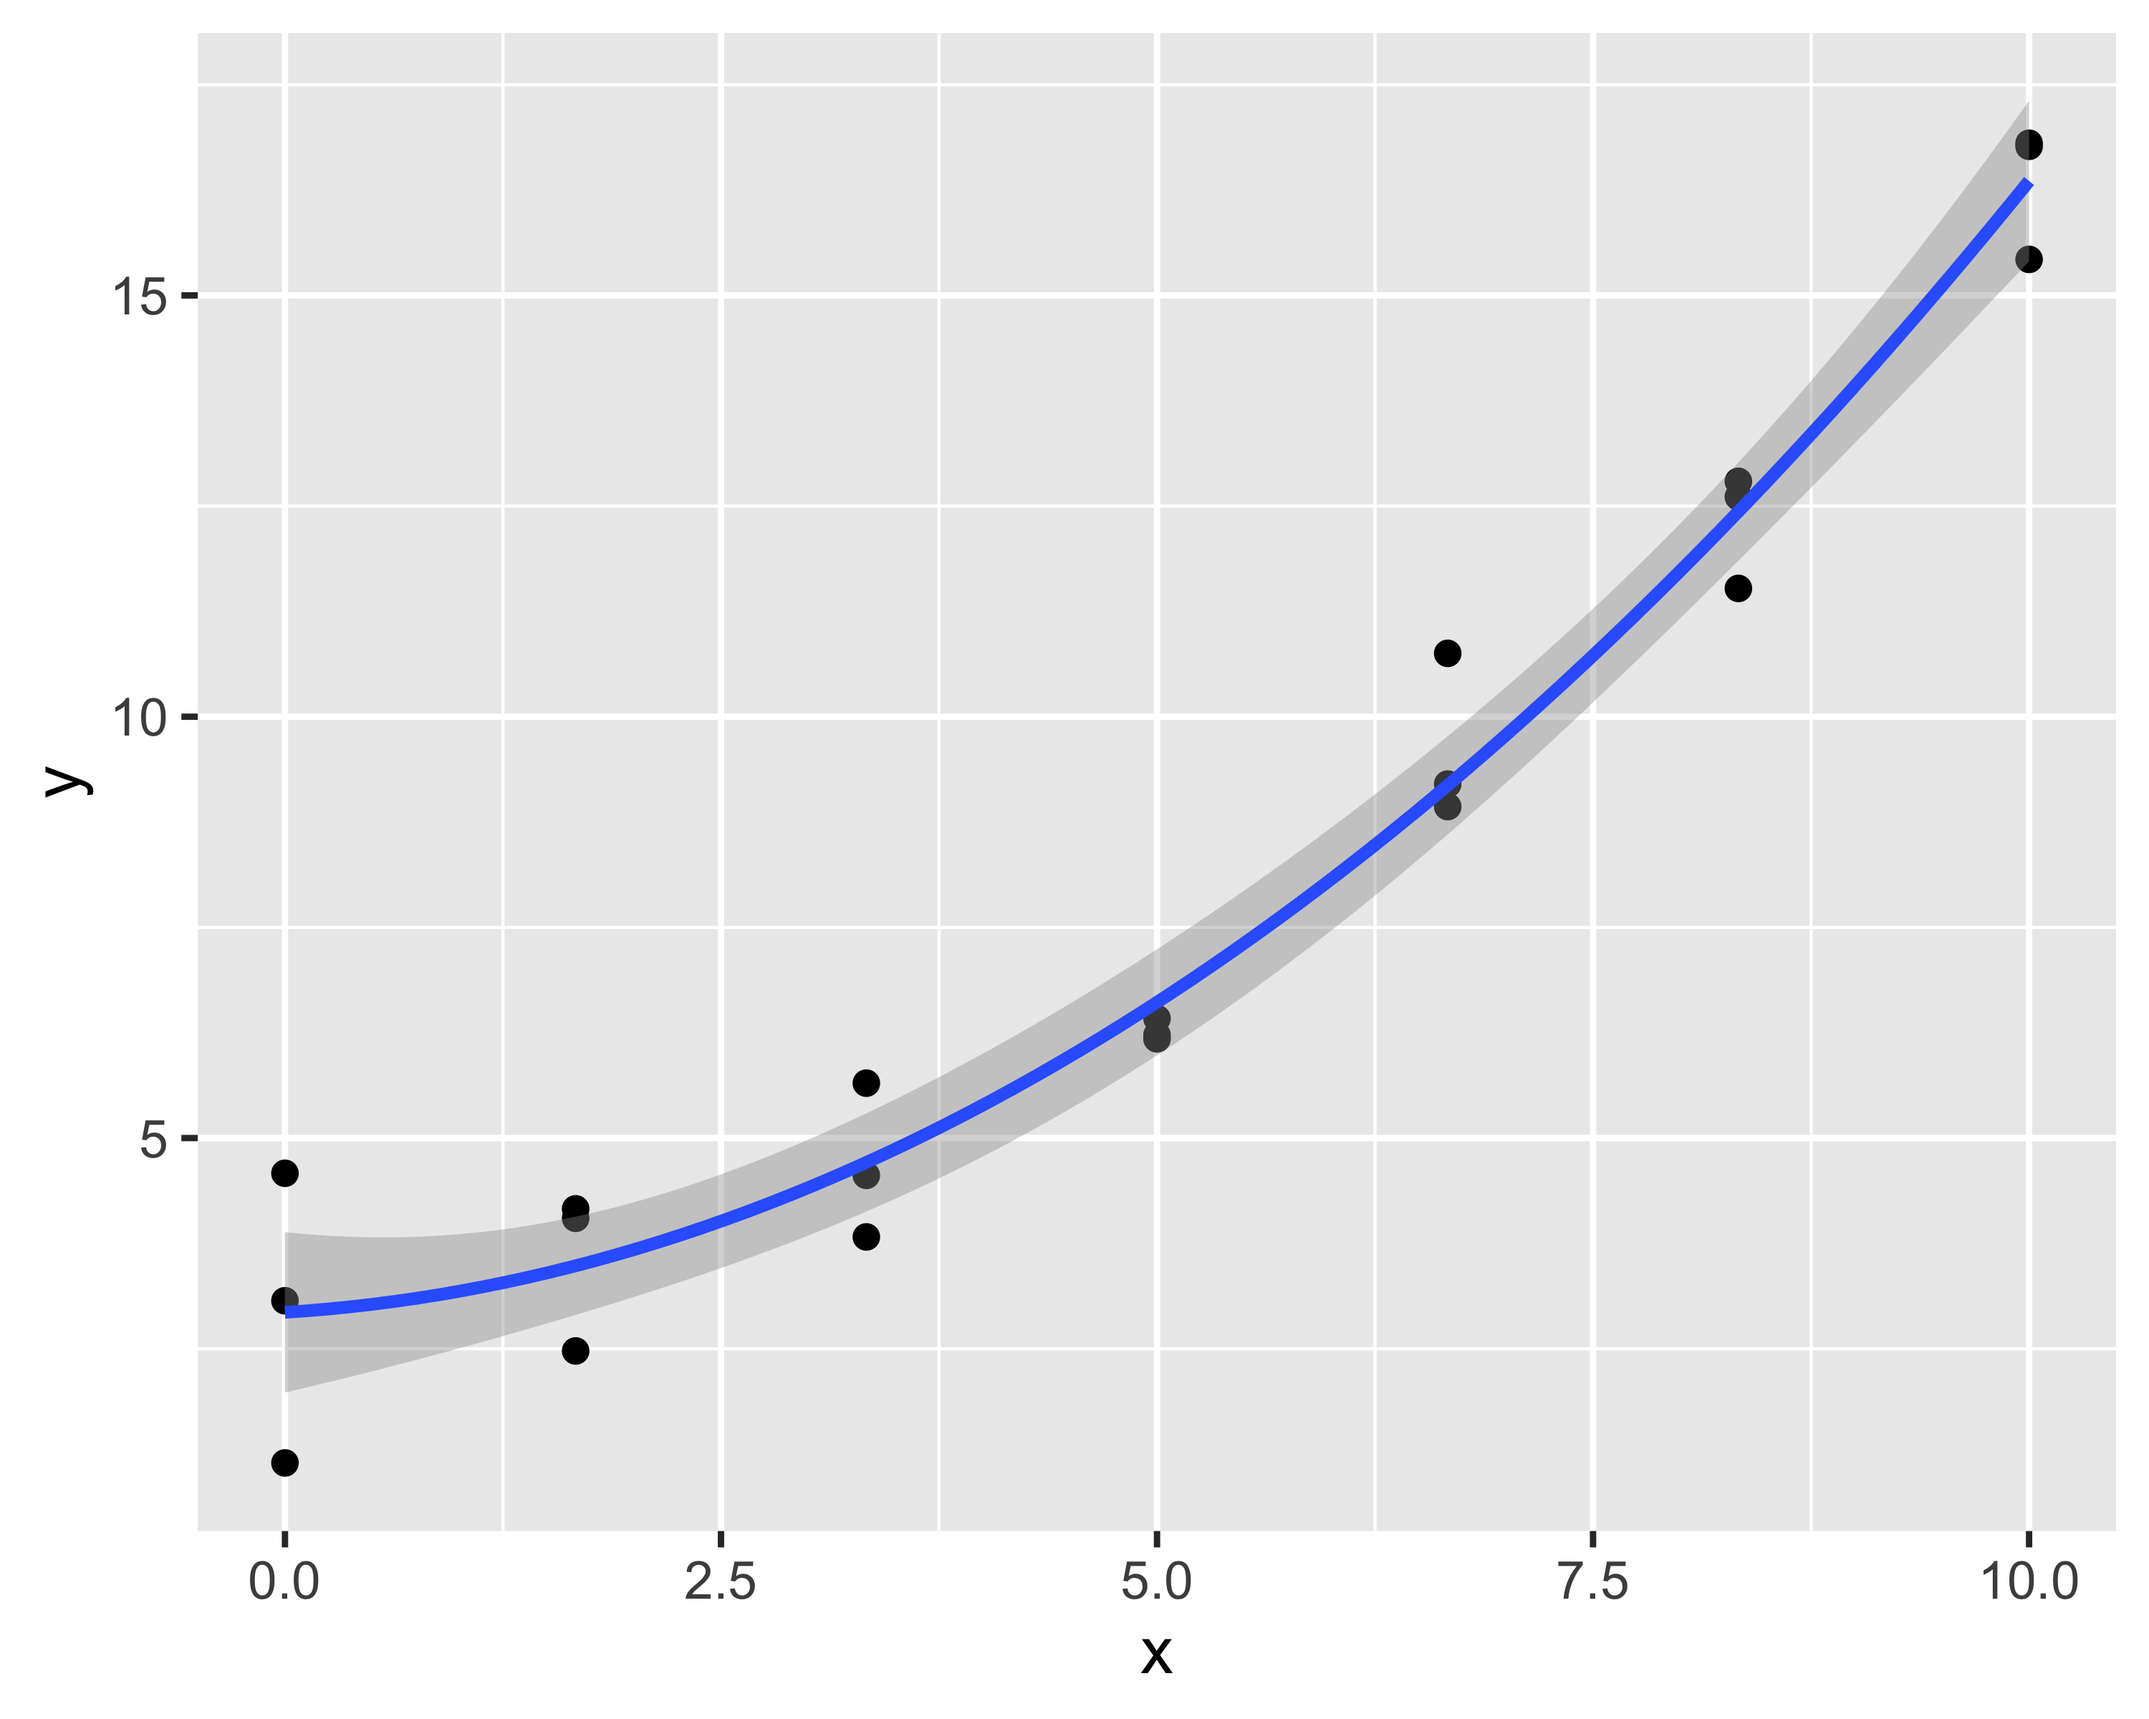
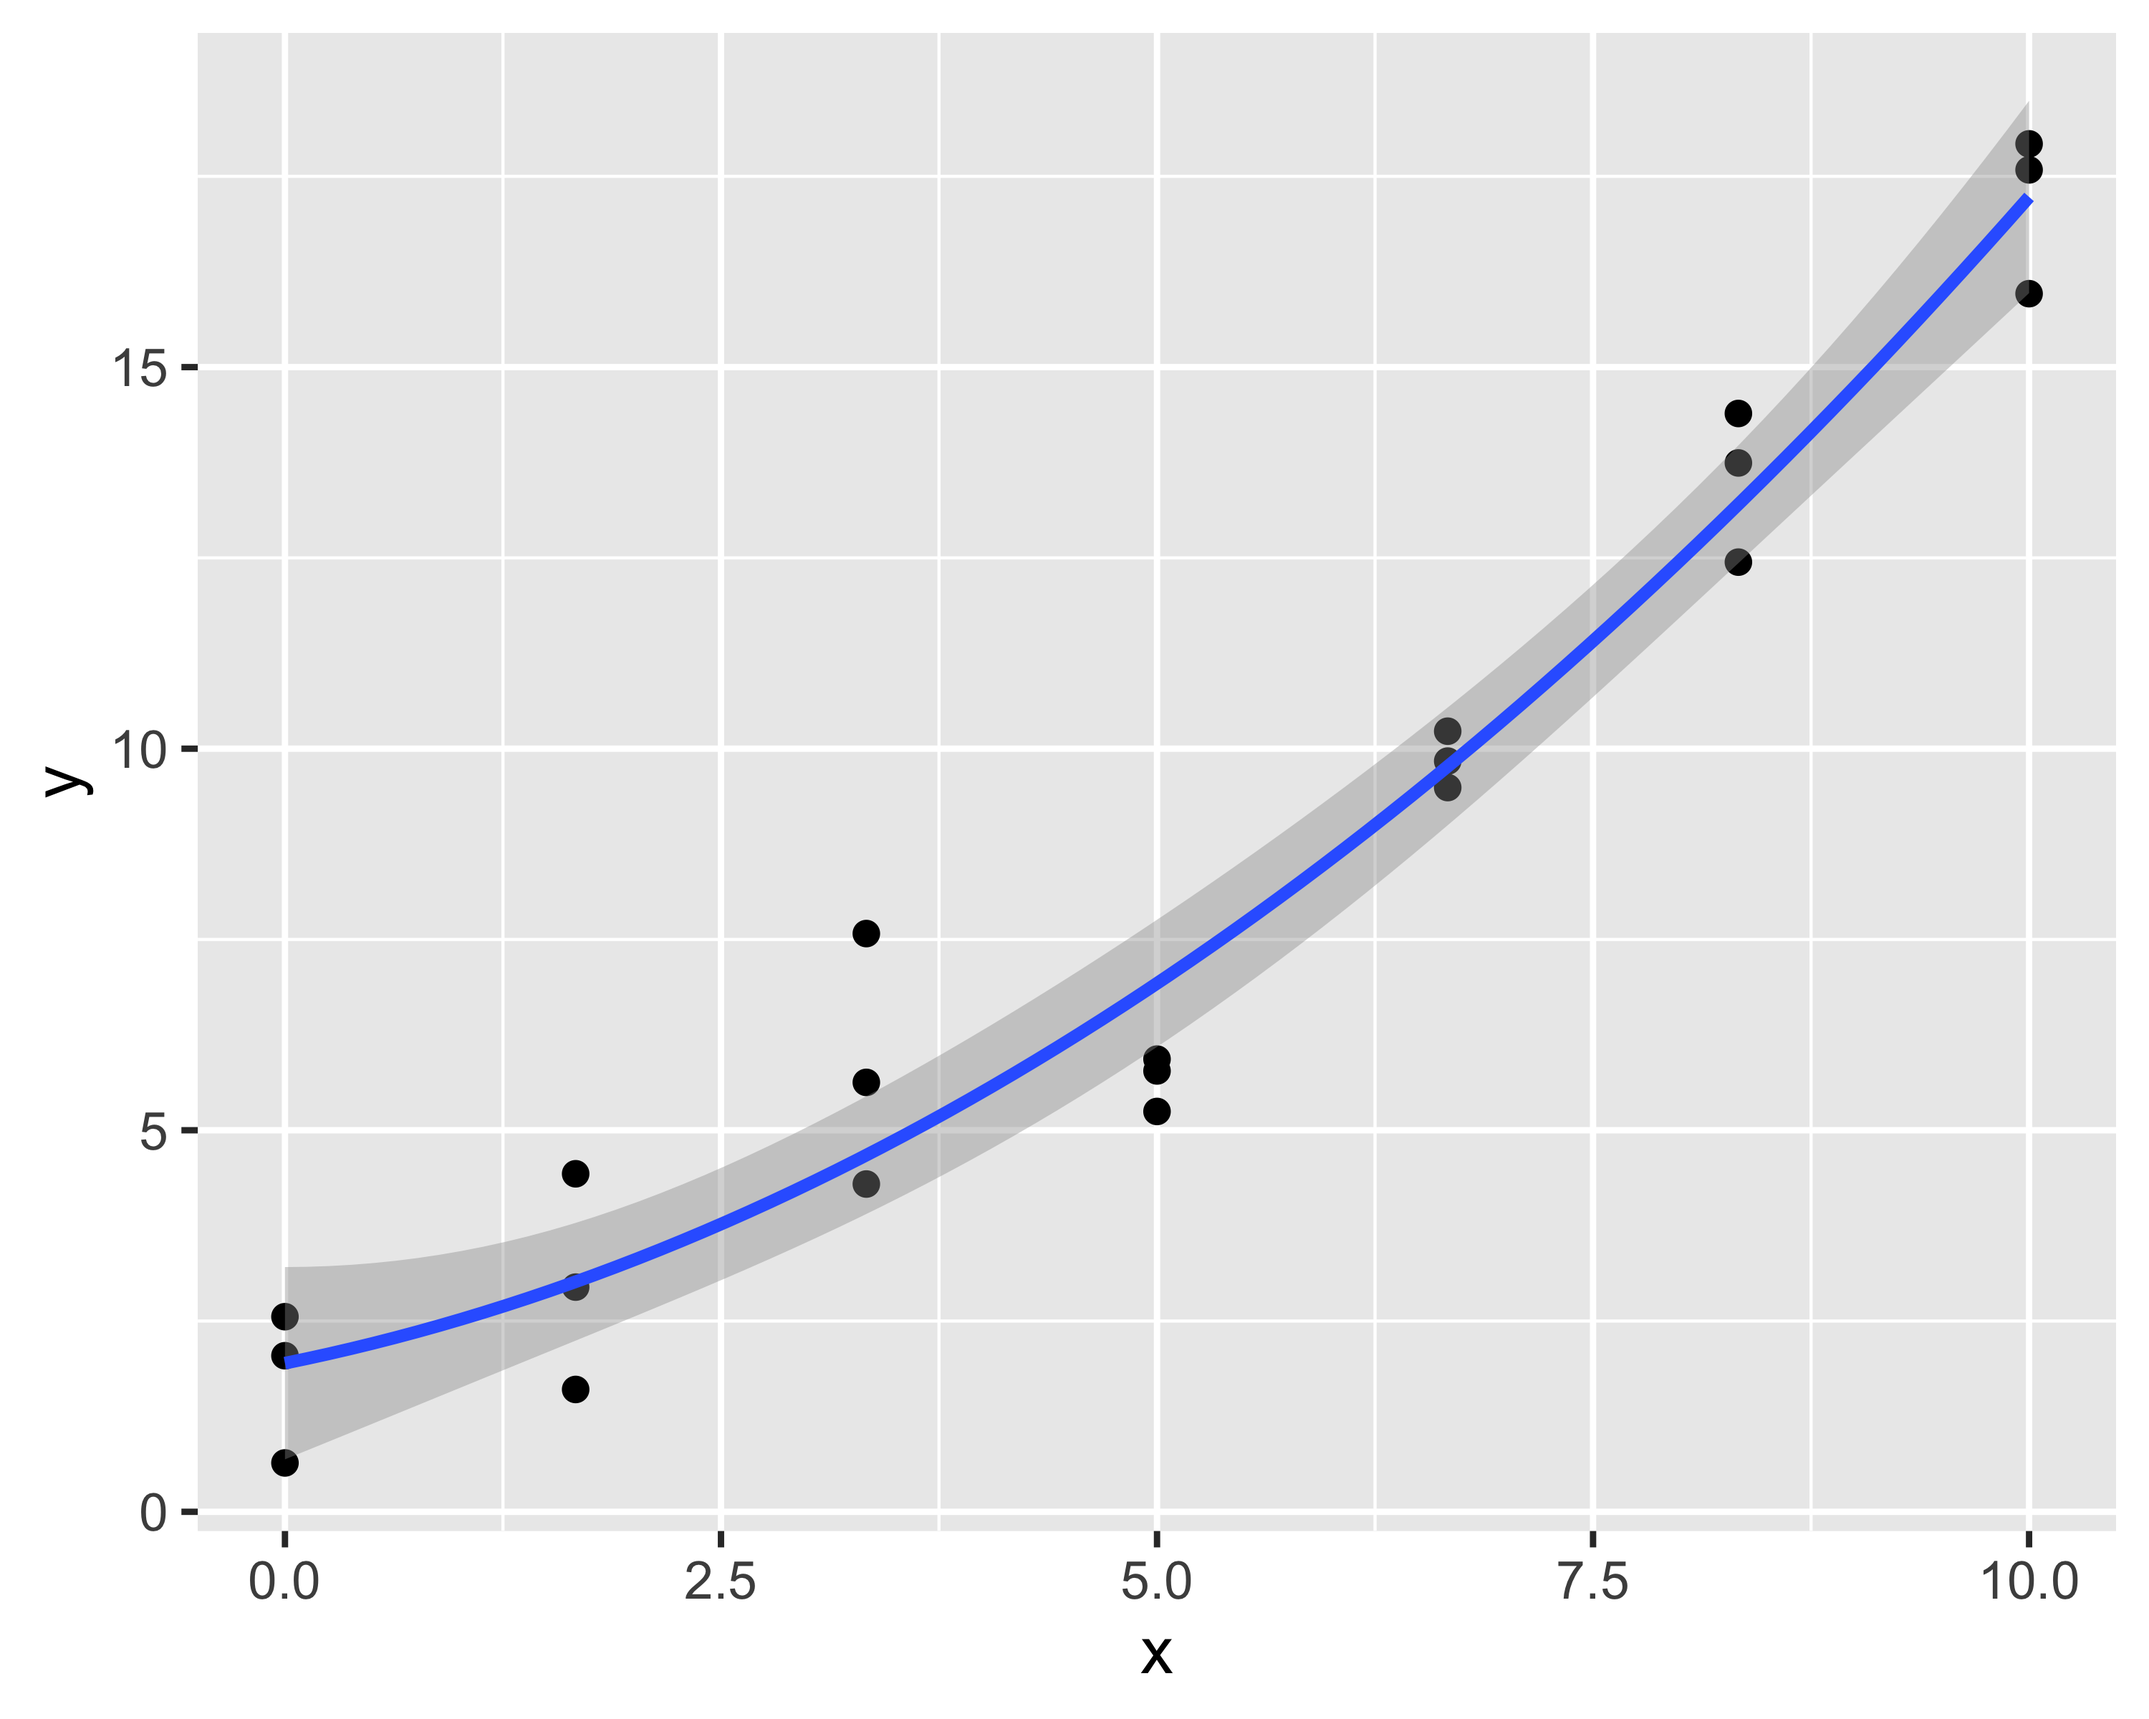
Built site for gh-pages

diff --git a/presentations/sperimentali.html b/presentations/sperimentali.html
@@ -353,21 +353,254 @@ Paolo Bosetti
 </div>
 </div></div>
 </section></section>
+<section>
 <section id="modelli-lineari" class="title-slide slide level1 center">
 <h1>Modelli lineari</h1>
 <p>Come approssimare un fenomeno con una relazione empirica</p>
 </section>
-
+<section id="modello-lineare-semplice" class="slide level2">
+<h2>Modello lineare semplice</h2>
+<p>Il modello lineare più semplice immaginabile + <span class="math inline">\(y=a + bx\)</span>, ma attenzione alle <strong>definizioni</strong></p>
+<ul>
+<li><strong>lineare</strong> significa che la relazione è una combinazione lineare <strong>dei coefficienti</strong></li>
+<li><strong>combinazione lineare</strong> significa una somma di termini moltiplicati ciascuno per un fattore (cioè un polinomio)</li>
+</ul>
+<p>Secondo queste definizioni, anche <span class="math inline">\(y=a + bx + cx^2\)</span> è un modello lineare nei coefficienti <span class="math inline">\(a, b, c\)</span>, così come lo è qualsiasi polinomio in <span class="math inline">\(x\)</span> di grado <span class="math inline">\(k\)</span></p>
+<div class="callout callout-note callout-titled callout-style-default">
+<div class="callout-body">
+<div class="callout-title">
+<div class="callout-icon-container">
+<i class="callout-icon"></i>
+</div>
+<p><strong>Note</strong></p>
+</div>
+<div class="callout-content">
+<ul>
+<li>I modelli lineari sono particolarmente utili perché semplici da trattare, pur essendo adatti a rappresentare un’ampia gamma di fenomeni</li>
+<li>In generale, per un modello di grado <span class="math inline">\(k\)</span> servono almeno <span class="math inline">\(k+1\)</span> <strong>livelli</strong> della variabile indipendente <span class="math inline">\(x\)</span> (chiamati <strong>trattamenti</strong>)</li>
+</ul>
+</div>
+</div>
+</div>
+</section>
+<section id="modelli-lineari-in-n-dimensioni" class="slide level2">
+<h2>Modelli lineari in <span class="math inline">\(n\)</span> dimensioni</h2>
+<p>Quando la relazione tra ingressi ed resa diventa più complessa, <span class="math inline">\(y=f(x_1, x_2, \dots, x_n)\)</span> è comunque possibile definire dei modelli lineari</p>
+<p>Ad esempio, per <span class="math inline">\(n=2\)</span> e fermandosi al primo grado:</p>
+<p><span class="math display">\[
+y=c_{0,0} + c_{1,0}x_1 + c_{0,1}x_2 + c_{1,1}x_1x_2
+\]</span></p>
+<p>Così, per un secondo grado:</p>
+<p><span class="math display">\[\begin{align}
+y&amp; =c_{0,0} + c_{1,0}x_1 + c_{0,1}x_2 + c_{1,1}x_1x_2 \\
+&amp; + c_{2,0}x_1^2 + c_{0,2}x_2^2 + c_{2,1}x_1^2x_2 + c_{1,2}x_1x_2^2 \\
+&amp; + c_{2,2}x_1^2x_2^2
+\end{align}\]</span></p>
+<p>e così via</p>
+</section>
+<section id="quanti-punti-o-trattamenti-servono" class="slide level2">
+<h2>Quanti punti (o trattamenti) servono?</h2>
+<p>Per un modello lineare di grado <span class="math inline">\(k\)</span> in tutte le variabili <span class="math inline">\(x_1,x_2,\dots,x_k\)</span> servono almeno <span class="math inline">\(k+1\)</span> punti per ogni variabile</p>
+<p>Quindi, se il processo dipende da <span class="math inline">\(n\)</span> variabili serve una <strong>griglia</strong> <span class="math inline">\(n\)</span>-dimensionale di <span class="math inline">\((k+1)^n\)</span> trattamenti differenti</p>
+<div class="callout callout-important callout-titled callout-style-default">
+<div class="callout-body">
+<div class="callout-title">
+<div class="callout-icon-container">
+<i class="callout-icon"></i>
+</div>
+<p><strong>Importante</strong></p>
+</div>
+<div class="callout-content">
+<p>Si tratta di numeri che crescono <strong>molto velocemente</strong>. Ad esempio, una relazione di secondo grado in sei fattori richiede almeno 729 trattamenti; se i fattori salgono a otto servono 6561 trattamenti, e così via</p>
+<p>Ovviamente, i <strong>costi sperimentali</strong> variano con il numero di esperimenti/trattamenti</p>
+</div>
+</div>
+</div>
+</section>
+<section id="come-si-identificano-i-coefficienti-del-modello" class="slide level2">
+<h2>Come si identificano i coefficienti del modello?</h2>
+<p>La procedura matematica con cui si calcolano i coefficienti del modello <span class="math inline">\(c_{i,j}\)</span> si chiama <strong>regressione lineare</strong></p>
+<p>Ci sono diverse tecniche numeriche per eseguirla: in generale si tratta sempre di identificare l’insieme di <span class="math inline">\(c_{i,j}\)</span> che <strong>minimizza i residui</strong> del modello</p>
+<p>I <strong>residui del modello</strong> sono le differenze tra le singole misure e i valori predetti dal modello <span class="math inline">\(y=f(x_1,x_2,\dots,x_n)\)</span></p>
+<div class="callout callout-note callout-titled callout-style-default">
+<div class="callout-body">
+<div class="callout-title">
+<div class="callout-icon-container">
+<i class="callout-icon"></i>
+</div>
+<p><strong>Nota</strong></p>
+</div>
+<div class="callout-content">
+<p><strong>Regredire un modello</strong> significa quindi adattare i suoi coefficienti finché esso passa mediamente più vicino possibile ai punti sperimentali</p>
+<p>È quindi a sua volta una <strong>procedura di ottimizzazione</strong>, che minimizza i residui agendo sui coefficienti del modello</p>
+<p>La procedura di ottimizzazione è in generale condotta mediante appositi software</p>
+</div>
+</div>
+</div>
+</section></section>
 <section>
 <section id="design-of-experiments" class="title-slide slide level1 center">
 <h1><em>Design of Experiments</em></h1>
-
+<p>Cioè, <strong>progettare</strong> gli esperimenti in modo da massimizzarne l’efficienza</p>
 </section>
 <section id="i-piani-fattoriali" class="slide level2">
 <h2>I piani fattoriali</h2>
+<div class="columns">
+<div class="column">
+<ul>
+<li>Due fattori, <span class="math inline">\(A\)</span> e <span class="math inline">\(B\)</span></li>
+<li>Indaghiamo 2 livelli per ogni fattore indicato come <span class="math inline">\(X-\)</span> e <span class="math inline">\(X+\)</span></li>
+<li>Cambiamo <strong>un livello alla volta</strong></li>
+<li>Valutiamo ogni trattamento <strong>1 sola volta</strong></li>
+<li>Valutiamo gli <strong>effetti</strong> di <span class="math inline">\(A\)</span> e <span class="math inline">\(B\)</span>: <span class="math display">\[
+\begin{align}
+A &amp;= 50 - 20 = 30\\
+B &amp;= 30 - 20 = 10
+\end{align}
+\]</span></li>
+</ul>
+</div><div class="column">
+<div class="cell">
+<div class="cell-output-display">
+<div>
+<figure>
+<p><img data-src="sperimentali_files/figure-revealjs/unnamed-chunk-6-1.png" width="1500"></p>
+</figure>
+</div>
+</div>
+</div>
+</div></div>
+</section>
+<section id="notazione-di-yates" class="slide level2">
+<h2>Notazione di Yates</h2>
+<p>Quando i livelli di tutti i fattori sono solo due, si può usare l’<strong>ordine di Yates</strong> per indicare le combinazioni di livelli:</p>
+<ul>
+<li>Fattori ed effetti dei fattori si indicano con lettere maiuscole</li>
+<li>I trattamenti si indicano con combinazioni di lettere minuscole
+<ul>
+<li>lettera presente significa fattore a livello alto</li>
+<li>lettera assente significa fattore a livello basso</li>
+<li>se tutte le lettere sono assenti si scrive <span class="math inline">\((1)\)</span></li>
+</ul></li>
+</ul>
+
+<aside><div>
+<p>Nell’esempio alla slide precedente, i trattamenti sono <span class="math inline">\((1), a, b\)</span></p>
+</div></aside></section>
+<section id="piano-fattoriale" class="slide level2">
+<h2>Piano fattoriale</h2>
+<div class="columns">
+<div class="column">
+<p>Modificando un fattore alla volta non si individuano le <strong>interazioni</strong></p>
+<p>Si ha interazione quando l’<strong>effetto</strong> di un fattore dipende dal <strong>livello</strong> di un altro fattore</p>
+<p>In questo secondo esempio misuriamo la risposta dei trattamenti <span class="math inline">\((1), a, b, ab\)</span></p>
+<p>Possiamo stimare sia gli effetti di <span class="math inline">\(A\)</span> e <span class="math inline">\(B\)</span> che l’<strong>interazione</strong> <span class="math inline">\(AB\)</span>:</p>
+<p><span class="math display">\[
+\begin{align}
+A &amp;= \frac{a+ab}{2} - \frac{(1) + b}{2} = 6\\
+B &amp;= \frac{b+ab}{2} - \frac{(1) + a}{2} = -14 \\
+AB &amp;= \frac{a+b}{2} - \frac{(1)+ab}{2} = -24
+\end{align}
+\]</span></p>
+</div><div class="column">
+<div class="cell">
+<div class="cell-output-display">
+<div>
+<figure>
+<p><img data-src="sperimentali_files/figure-revealjs/unnamed-chunk-8-1.png" width="1500"></p>
+</figure>
+</div>
+</div>
+</div>
+</div></div>
+</section>
+<section id="grafico-di-interazione" class="slide level2">
+<h2>Grafico di interazione</h2>
+<div class="columns">
+<div class="column">
+<p>Il concetto di interazione è ben illustrato dai <strong>grafici di interazione</strong></p>
+<ul>
+<li>Se i due segmenti sono <strong>paralleli</strong> non c’è interazione</li>
+<li>Se i due segmenti sono <strong>incrociati</strong> o convergenti c’è interazione</li>
+<li>È <strong>indifferente</strong> quale fattore è in ascissa e quale in serie</li>
+</ul>
+</div><div class="column">
+<div class="panel-tabset">
+<ul id="tabset-1" class="panel-tabset-tabby"><li><a data-tabby-default="" href="#tabset-1-1">Resa vs.&nbsp;A</a></li><li><a href="#tabset-1-2">Resa vs.&nbsp;B</a></li></ul>
+<div class="tab-content">
+<div id="tabset-1-1">
+<div class="cell">
+<div class="cell-output-display">
+<div>
+<figure>
+<p><img data-src="sperimentali_files/figure-revealjs/unnamed-chunk-9-1.png" width="1500"></p>
+</figure>
+</div>
+</div>
+</div>
+</div>
+<div id="tabset-1-2">
+<div class="cell">
+<div class="cell-output-display">
+<div>
+<figure>
+<p><img data-src="sperimentali_files/figure-revealjs/unnamed-chunk-10-1.png" width="1500"></p>
+</figure>
+</div>
+</div>
+</div>
+</div>
+</div>
+</div>
+</div></div>
+</section>
+<section id="superficie-di-risposta-1" class="slide level2">
+<h2>Superficie di risposta</h2>
+<div class="columns">
+<div class="column">
+<p>I grafici di interazione non sono altro che <strong>proiezioni</strong> sull’asse di uno dei due fattori della <strong>superficie di risposta</strong></p>
+<p>Si usano generalmente <strong>unità codificate</strong>, riscalando l’intervallo di ciascun fattore sull’intervallo <span class="math inline">\([-1,1]\)</span></p>
+<p>In questo modo si ha la stessa sensibilità indipendentemente dall’intervallo della scala originale</p>
+</div><div class="column">
+<div class="cell">
+<div class="cell-output-display">
+<div>
+<figure>
+<p><img data-src="sperimentali_files/figure-revealjs/unnamed-chunk-11-1.png" width="1500"></p>
+</figure>
+</div>
+</div>
+</div>
+</div></div>
+<div class="callout callout-important callout-titled callout-style-default">
+<div class="callout-body">
+<div class="callout-title">
+<div class="callout-icon-container">
+<i class="callout-icon"></i>
+</div>
+<p><strong>Importante</strong></p>
+</div>
+<div class="callout-content">
+<p><strong>NOTA</strong>: né la superficie di risposta né i grafici di interazione dànno alcuna informazione sulla <strong>significatività statistica</strong> degli effetti</p>
+</div>
+</div>
+</div>
+</section>
+<section id="risorse-online" class="slide level2">
+<h2>Risorse online</h2>
+<p>Livello base, utilizzando Excel per trattare i dati:</p>
+<ul>
+<li><a href="https://asq.org/quality-resources/quality-tools" target="asq">Quality Tools</a>, by <em>American Society for Quality</em></li>
+<li><a href="https://asq.org/-/media/public/sixsigma/tools-exchange/3-factor-doe-template.xls" target="asq">DoE Excel template</a>, by <em>American Society for Quality</em></li>
+</ul>
+<p>Livello evoluto (richiede programmazione)</p>
+<ul>
+<li><a href="https://r-project.org" target="R">Linguaggio R</a></li>
+<li><a href="https://cran.r-project.org/web/packages/adas.utils/vignettes/adas.utils.html" target="R">Libreria R <code>adas.utils</code></a></li>
+</ul>
 </section>
 <section id="lanalisi-della-varianza" class="slide level2">
-<h2>L’analisi della Varianza</h2>
+<h2>L’analisi della varianza</h2>
 
 
 </section></section>
